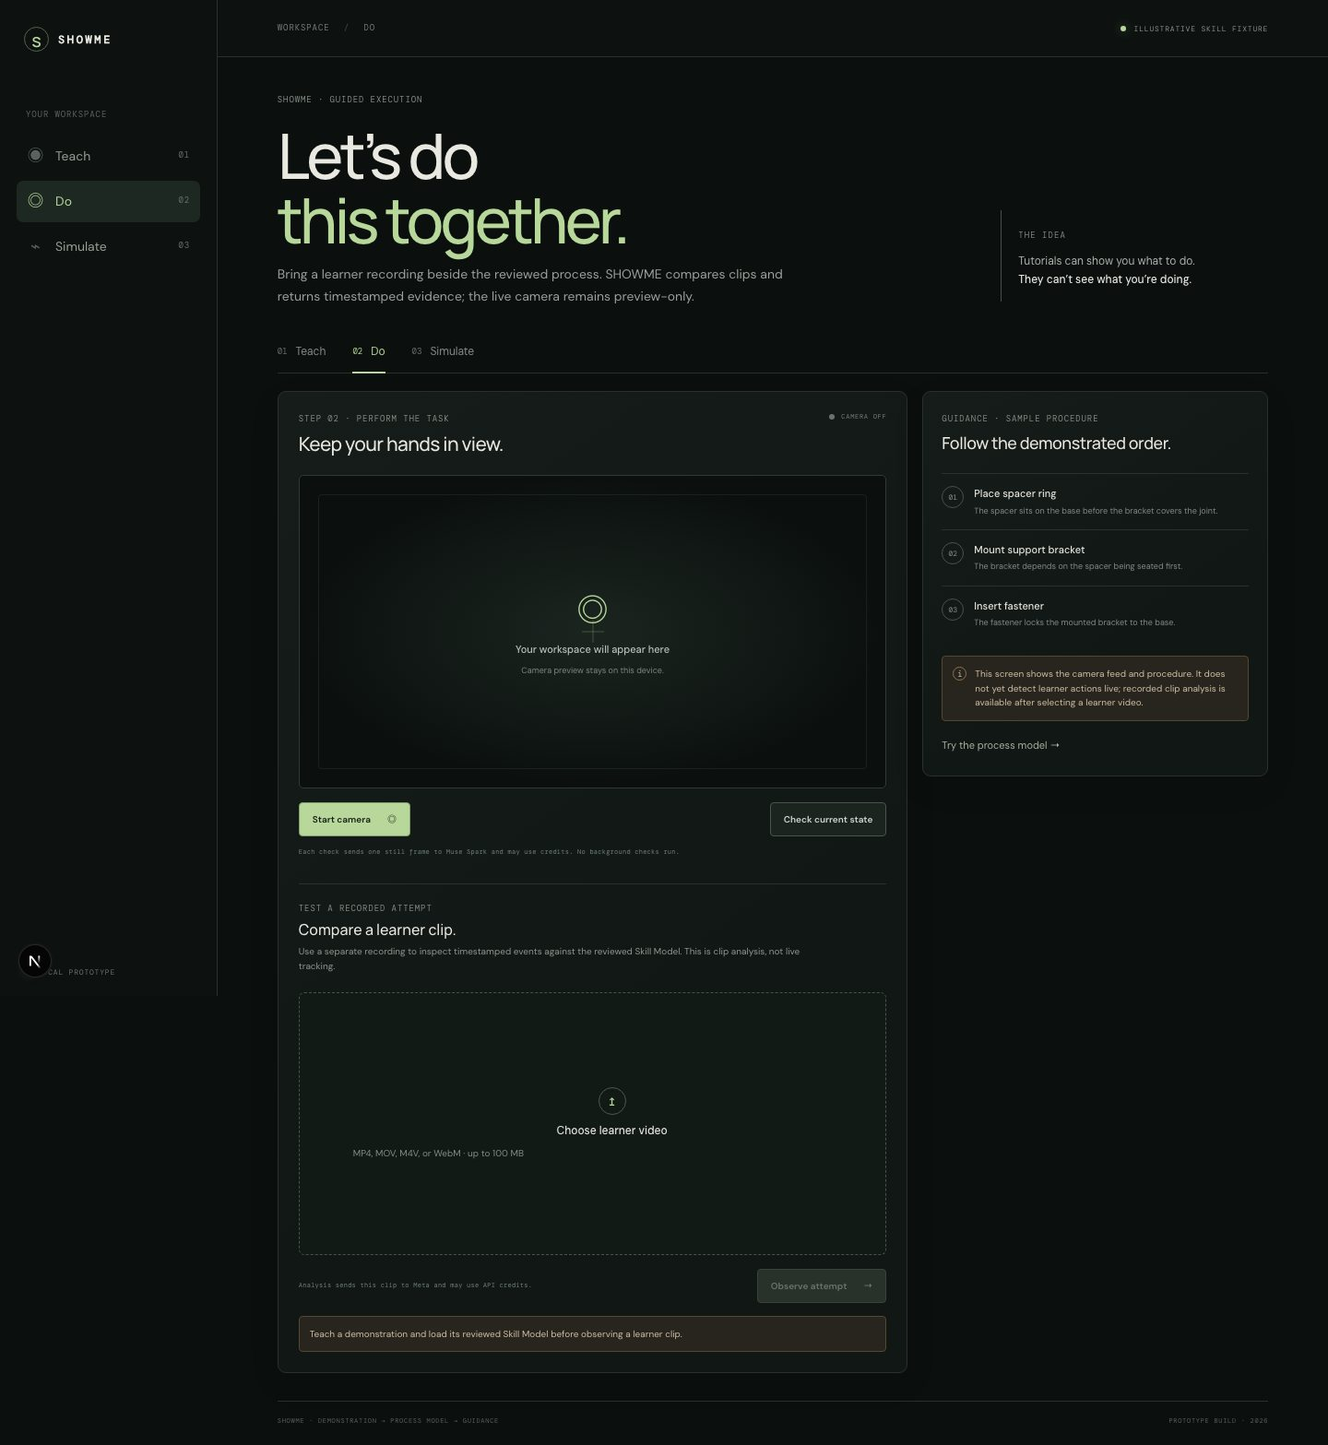
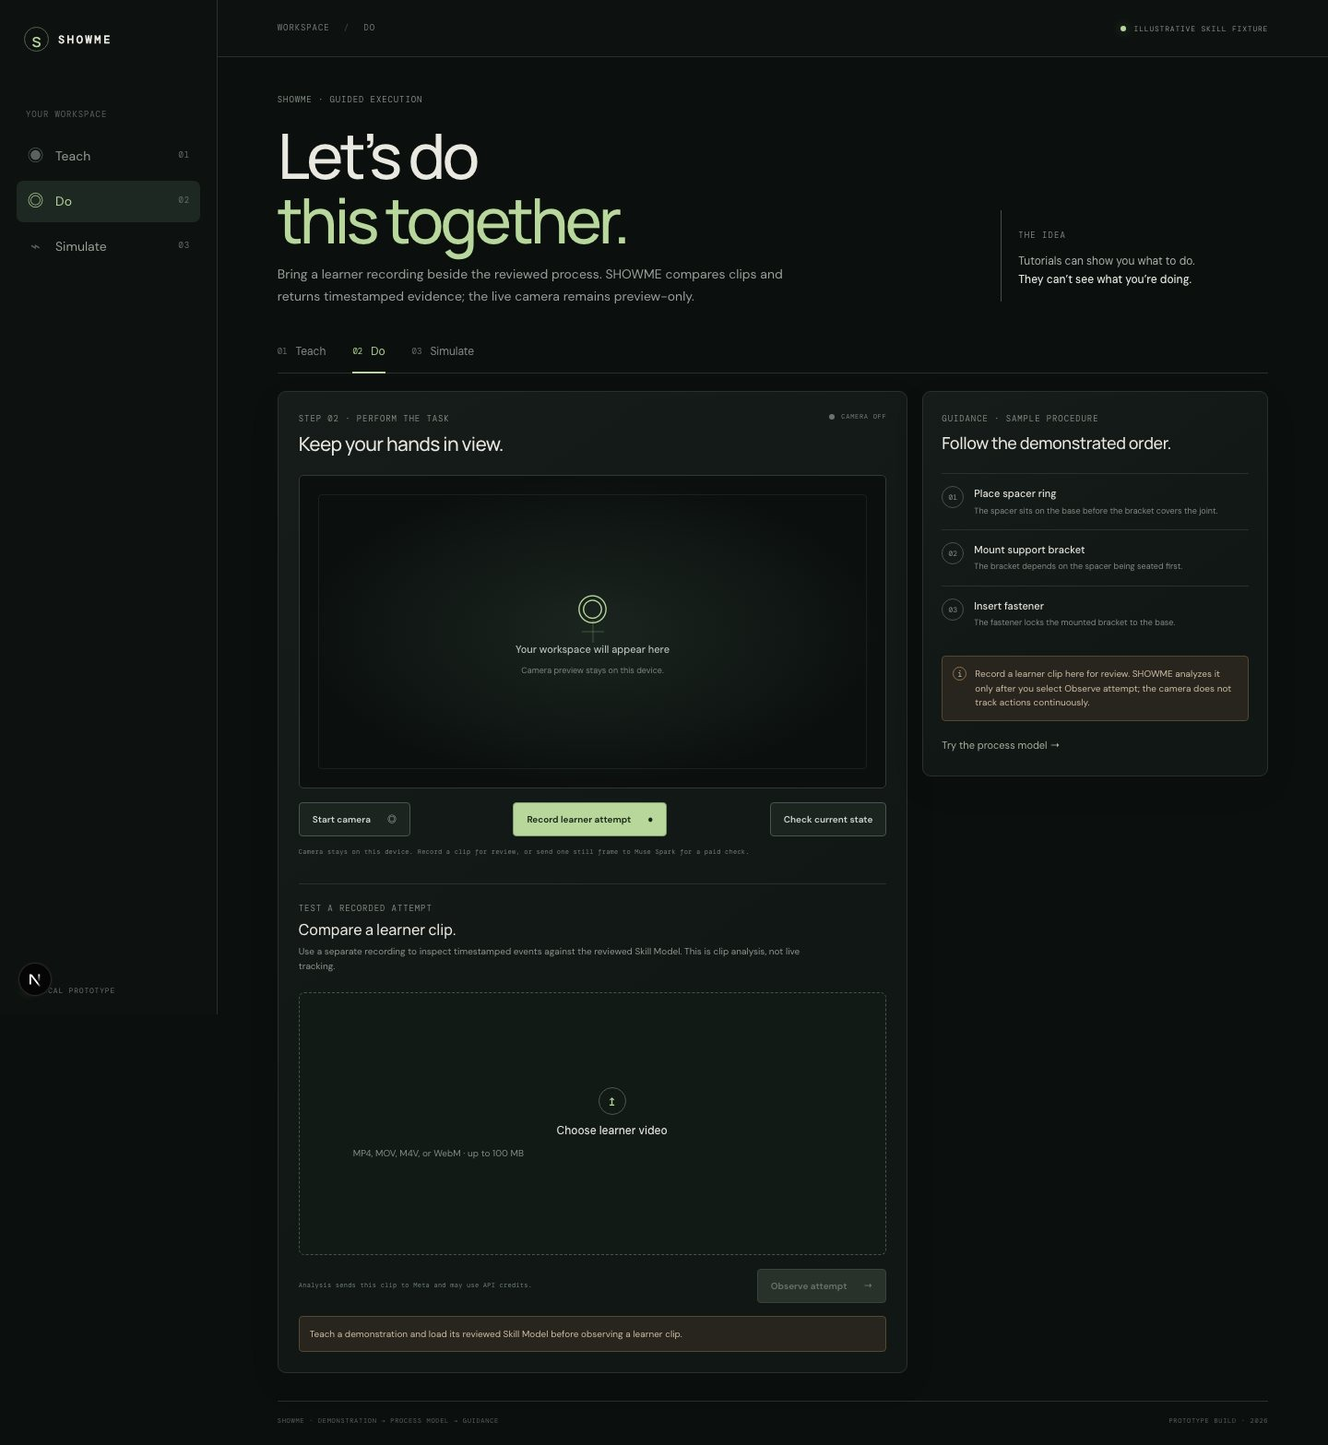
Add local learner recording to SHOWME Do

Changed region(s): [[0.7188, 0.4595, 0.9062, 0.4901], [0.375, 0.5514, 0.5, 0.582], [0.2188, 0.5514, 0.3125, 0.582]]

diff --git a/apps/web/app/page.tsx b/apps/web/app/page.tsx
@@ -67,6 +67,7 @@ export default function Home() {
   const [recordingDemo, setRecordingDemo] = useState(false);
   const [demoCaptureError, setDemoCaptureError] = useState("");
   const [cameraOn, setCameraOn] = useState(false);
+  const [recordingAttempt, setRecordingAttempt] = useState(false);
   const [cameraError, setCameraError] = useState("");
   const [narration, setNarration] = useState("");
   const [learnedProcess, setLearnedProcess] = useState<LearnedProcess | null>(null);
@@ -88,6 +89,8 @@ export default function Home() {
   const demoStreamRef = useRef<MediaStream | null>(null);
   const demoRecorderRef = useRef<MediaRecorder | null>(null);
   const demoChunksRef = useRef<Blob[]>([]);
+  const attemptRecorderRef = useRef<MediaRecorder | null>(null);
+  const attemptChunksRef = useRef<Blob[]>([]);
   const learnerInput = useRef<HTMLInputElement>(null);
   const learnerVideoRef = useRef<HTMLVideoElement>(null);
   const videoRef = useRef<HTMLVideoElement>(null);
@@ -129,8 +132,27 @@ export default function Home() {
 
   useEffect(() => () => {
     if (demoRecorderRef.current?.state === "recording") demoRecorderRef.current.stop();
+    if (attemptRecorderRef.current?.state === "recording") attemptRecorderRef.current.stop();
     demoStreamRef.current?.getTracks().forEach((track) => track.stop());
+    streamRef.current?.getTracks().forEach((track) => track.stop());
   }, []);
+
+  useEffect(() => () => {
+    if (mode === "teach") {
+      if (demoRecorderRef.current?.state === "recording") demoRecorderRef.current.stop();
+      demoStreamRef.current?.getTracks().forEach((track) => track.stop());
+      demoStreamRef.current = null;
+      setDemoCameraOn(false);
+      setRecordingDemo(false);
+    }
+    if (mode === "do") {
+      if (attemptRecorderRef.current?.state === "recording") attemptRecorderRef.current.stop();
+      streamRef.current?.getTracks().forEach((track) => track.stop());
+      streamRef.current = null;
+      setCameraOn(false);
+      setRecordingAttempt(false);
+    }
+  }, [mode]);
 
   useEffect(() => {
     if (cameraOn && videoRef.current && streamRef.current) videoRef.current.srcObject = streamRef.current;
@@ -192,9 +214,51 @@ export default function Home() {
   }
 
   function stopCamera() {
+    if (attemptRecorderRef.current?.state === "recording") {
+      attemptRecorderRef.current.stop();
+      return;
+    }
     streamRef.current?.getTracks().forEach((track) => track.stop());
     streamRef.current = null;
     setCameraOn(false);
+  }
+
+  async function startAttemptRecording() {
+    if (!navigator.mediaDevices?.getUserMedia || typeof MediaRecorder === "undefined") {
+      setCameraError("Camera recording is unavailable here. You can upload a learner clip instead.");
+      return;
+    }
+    try {
+      let stream = streamRef.current;
+      if (!stream) {
+        stream = await navigator.mediaDevices.getUserMedia({ video: { facingMode: "environment", width: { ideal: 1280 }, height: { ideal: 720 } }, audio: false });
+        streamRef.current = stream;
+        setCameraOn(true);
+      }
+      const mimeType = ["video/webm;codecs=vp9", "video/webm;codecs=vp8", "video/mp4"]
+        .find((candidate) => MediaRecorder.isTypeSupported(candidate));
+      const recorder = new MediaRecorder(stream, mimeType ? { mimeType } : undefined);
+      attemptChunksRef.current = [];
+      recorder.ondataavailable = (event) => {
+        if (event.data.size > 0) attemptChunksRef.current.push(event.data);
+      };
+      recorder.onstop = () => {
+        const blob = new Blob(attemptChunksRef.current, { type: recorder.mimeType || "video/webm" });
+        const extension = blob.type.includes("mp4") ? "mp4" : "webm";
+        if (blob.size > 0) chooseLearnerVideo(new File([blob], `showme-attempt.${extension}`, { type: blob.type }));
+        streamRef.current?.getTracks().forEach((track) => track.stop());
+        streamRef.current = null;
+        attemptRecorderRef.current = null;
+        setRecordingAttempt(false);
+        setCameraOn(false);
+      };
+      attemptRecorderRef.current = recorder;
+      recorder.start(1000);
+      setRecordingAttempt(true);
+      setCameraError("");
+    } catch {
+      setCameraError("The browser could not start recording. You can upload a learner clip instead.");
+    }
   }
 
   function loadReviewedCandidate() {
@@ -496,17 +560,17 @@ export default function Home() {
           </div>}
 
           {mode === "do" && <div className="work-grid do-grid">
-            <section className="card camera-card"><div className="card-heading"><div><div className="eyebrow">STEP 02 · PERFORM THE TASK</div><h2>Keep your hands in view.</h2></div><span className={`record-indicator ${cameraOn ? "recording" : ""}`}><i /> {cameraOn ? "CAMERA ON" : "CAMERA OFF"}</span></div>
+            <section className="card camera-card"><div className="card-heading"><div><div className="eyebrow">STEP 02 · PERFORM THE TASK</div><h2>Keep your hands in view.</h2></div><span className={`record-indicator ${recordingAttempt ? "recording" : ""}`}><i /> {recordingAttempt ? "RECORDING" : cameraOn ? "CAMERA ON" : "CAMERA OFF"}</span></div>
               <div className="camera-stage">{cameraOn ? <video ref={videoRef} className="camera-feed" autoPlay muted playsInline /> : <div className="camera-empty"><span>◎</span><strong>Your workspace will appear here</strong><small>Camera preview stays on this device.</small></div>}<div className="camera-crosshair" /></div>
-              <div className="camera-controls">{cameraOn ? <button className="secondary-button" onClick={stopCamera}>Stop camera</button> : <button className="primary-button" onClick={() => void startCamera()}>Start camera <span>◎</span></button>}<button className="secondary-button" disabled={!cameraOn || !activeProcess || checkingSnapshot} onClick={() => void checkCurrentState()}>{checkingSnapshot ? "Checking frame…" : "Check current state"}</button><span className="small-note">Each check sends one still frame to Muse Spark and may use credits. No background checks run.</span></div>
+              <div className="camera-controls">{cameraOn ? <><button className="secondary-button" onClick={stopCamera}>{recordingAttempt ? "Stop and use this clip" : "Stop camera"}</button><button className="primary-button" disabled={recordingAttempt} onClick={() => void startAttemptRecording()}>{recordingAttempt ? "Recording…" : "Record learner attempt"}<span>●</span></button></> : <><button className="secondary-button" onClick={() => void startCamera()}>Start camera <span>◎</span></button><button className="primary-button" onClick={() => void startAttemptRecording()}>Record learner attempt<span>●</span></button></>}<button className="secondary-button" disabled={!cameraOn || recordingAttempt || !activeProcess || checkingSnapshot} onClick={() => void checkCurrentState()}>{checkingSnapshot ? "Checking frame…" : "Check current state"}</button><span className="small-note">Camera stays on this device. Record a clip for review, or send one still frame to Muse Spark for a paid check.</span></div>
               {cameraError && <div className="inline-honesty">{cameraError}</div>}
               {snapshotError && <div className="inline-honesty" role="alert">{snapshotError}</div>}
               {snapshotObservation && <section className={`snapshot-result snapshot-${snapshotObservation.assessment}`} aria-live="polite"><div className="eyebrow">ONE-FRAME CHECK · {snapshotObservation._run?.model ?? "MUSE SPARK"}</div><strong>{snapshotObservation.assessment === "consistent" ? "Matches a demonstrated state" : snapshotObservation.assessment === "possible_divergence" ? "Possible difference from the demonstrated states" : "The frame is unclear"}</strong><p>{snapshotObservation.evidence}</p><small>{snapshotObservation.state_id === "unknown" ? "No matching state identified" : activeProcess?.states.find((state) => state.id === snapshotObservation.state_id)?.description ?? snapshotObservation.state_id} · {objectLabels(snapshotObservation.object_ids)}</small>{snapshotObservation.uncertainties.length > 0 && <ul>{snapshotObservation.uncertainties.map((item, index) => <li key={`${index}-${item}`}>{item}</li>)}</ul>}<small className="snapshot-boundary">A still frame cannot show what happened before it or confirm recovery. This is not continuous tracking.</small></section>}
               <div className="observe-panel"><div className="eyebrow">TEST A RECORDED ATTEMPT</div><h3>Compare a learner clip.</h3><p>Use a separate recording to inspect timestamped events against the reviewed Skill Model. This is clip analysis, not live tracking.</p>
-                <button className="upload-drop compact-drop" onClick={() => learnerInput.current?.click()}><span className="upload-symbol">↥</span><strong>{learnerFile ? learnerFile.name : "Choose learner video"}</strong><small>MP4, MOV, M4V, or WebM · up to 100 MB</small></button>
+                <button className="upload-drop compact-drop" disabled={cameraOn} onClick={() => learnerInput.current?.click()}><span className="upload-symbol">↥</span><strong>{learnerFile ? learnerFile.name : "Choose learner video"}</strong><small>MP4, MOV, M4V, or WebM · up to 100 MB</small></button>
                 <input ref={learnerInput} type="file" accept="video/mp4,video/quicktime,video/x-m4v,video/webm" hidden onChange={(event) => chooseLearnerVideo(event.target.files?.[0])} />
                 {learnerUrl && <VideoPreview src={learnerUrl} videoRef={learnerVideoRef} />}
-                <div className="capture-actions"><span className="small-note">Analysis sends this clip to Meta and may use API credits.</span><button className="primary-button" disabled={!learnerFile || !activeProcess || observing} onClick={() => void observeLearnerVideo()}>{observing ? "Comparing clip…" : "Observe attempt"}<span>→</span></button></div>
+                <div className="capture-actions"><span className="small-note">Analysis sends this clip to Meta and may use API credits.</span><button className="primary-button" disabled={!learnerFile || !activeProcess || observing || cameraOn} onClick={() => void observeLearnerVideo()}>{observing ? "Comparing clip…" : "Observe attempt"}<span>→</span></button></div>
                 {!activeProcess && <div className="inline-honesty">Teach a demonstration and load its reviewed Skill Model before observing a learner clip.</div>}
                 {observeError && <div className="inline-honesty" role="alert">{observeError}</div>}
                 {observation && <section className="observation-results" aria-live="polite"><div className="observation-heading"><div><div className="eyebrow">MODEL OBSERVATION · {observation._run?.model ?? "MUSE SPARK"}</div><h4>{observation.recovery_status.replaceAll("_", " ")}</h4></div><span>{observation._run?.usage?.input_tokens ?? 0} INPUT TOKENS</span></div>
@@ -528,7 +592,7 @@ export default function Home() {
                 </section>}
               </div>
             </section>
-            <aside className="card guide-card"><div className="eyebrow">GUIDANCE · {activeProcess ? "REVIEWED SKILL" : "SAMPLE PROCEDURE"}</div><h3>Follow the demonstrated order.</h3><div className="guide-list">{model.actions.map((action, index) => <div className="guide-step" key={action.id}><span className={`guide-check ${state.includes(action.produces[0]) ? "done" : ""}`}>{state.includes(action.produces[0]) ? "✓" : String(index + 1).padStart(2, "0")}</span><div><strong>{action.label}</strong><small>{action.explanation}</small></div></div>)}</div><div className="guide-boundary"><span>i</span><p>This screen shows the camera feed and procedure. It does not yet detect learner actions live; recorded clip analysis is available after selecting a learner video.</p></div><button className="text-action" onClick={() => setMode("simulate")}>Try the process model <span>→</span></button>{activeProcess && <button className="text-action forget-skill" onClick={forgetReviewedSkill}>Forget saved skill</button>}</aside>
+            <aside className="card guide-card"><div className="eyebrow">GUIDANCE · {activeProcess ? "REVIEWED SKILL" : "SAMPLE PROCEDURE"}</div><h3>Follow the demonstrated order.</h3><div className="guide-list">{model.actions.map((action, index) => <div className="guide-step" key={action.id}><span className={`guide-check ${state.includes(action.produces[0]) ? "done" : ""}`}>{state.includes(action.produces[0]) ? "✓" : String(index + 1).padStart(2, "0")}</span><div><strong>{action.label}</strong><small>{action.explanation}</small></div></div>)}</div><div className="guide-boundary"><span>i</span><p>Record a learner clip here for review. SHOWME analyzes it only after you select Observe attempt; the camera does not track actions continuously.</p></div><button className="text-action" onClick={() => setMode("simulate")}>Try the process model <span>→</span></button>{activeProcess && <button className="text-action forget-skill" onClick={forgetReviewedSkill}>Forget saved skill</button>}</aside>
           </div>}
 
           <footer className="page-footer"><span>SHOWME · DEMONSTRATION → PROCESS MODEL → GUIDANCE</span><span>PROTOTYPE BUILD · 2026</span></footer>

diff --git a/apps/web/app/showme-panels.css b/apps/web/app/showme-panels.css
@@ -11,3 +11,4 @@
 .sequence-playback{display:flex;justify-content:space-between;align-items:center;gap:9px;padding:9px 0;border-top:1px solid #303b32;border-bottom:1px solid #303b32}.sequence-playback>span{color:#9baa9b;font:7px var(--mono);letter-spacing:.08em}.sequence-playback>div{display:flex;gap:6px}.sequence-playback .secondary-button{min-height:27px;padding:0 8px;font-size:8px}.sequence-report li.current{padding:5px;border-radius:3px;background:#202a22}
 .sequence-report.sequence-blocked li.current{background:#332718}.sequence-report.sequence-unobserved li.current{background:#302c1b}
 .demo-record-stage{height:285px;position:relative;overflow:hidden;margin-top:20px;border:1px solid #303a34;border-radius:5px;background:#080b09}.demo-record-stage .camera-feed{object-fit:cover}.demo-record-stage .record-indicator{position:absolute;top:12px;right:12px;padding:7px 9px;border:1px solid #3b463f;border-radius:4px;background:#111714dd}.demo-record-controls{display:flex;flex-wrap:wrap;align-items:center;gap:9px;margin-top:12px}.demo-record-controls .small-note{flex:1 1 100%;line-height:1.6}.demo-record-controls .primary-button,.demo-record-controls .secondary-button{min-height:33px;font-size:9px}
+.upload-drop:disabled{opacity:.5;cursor:not-allowed}

diff --git a/docs/SHOWME_APP_PLAN.md b/docs/SHOWME_APP_PLAN.md
@@ -53,10 +53,11 @@ The current mockups use an illustrative washer/bracket assembly. It is not the s
 ## Implementation status
 
 - Teach now supports both video upload and browser-camera recording; the recorded clip stays local until the user submits it to Muse Spark for analysis.
+- Do can also record a learner attempt locally or accept an uploaded clip; **Observe attempt** remains an explicit model-call action. Camera streams are stopped when the user leaves that surface.
 
 - Product contract: locked in [`PRODUCT.md`](PRODUCT.md).
 - Concept mockups: two created; Teach concept missing.
-- SHOWME web prototype: Teach, Do, and Simulate are implemented in `apps/web/` over a shared Skill Model. Teach accepts video and requires human review before activating the candidate; model-proposed prerequisites stay unenforced unless the reviewer explicitly maps one to an observed state. Do supports explicit single-frame checks and recorded learner-clip analysis; neither is continuous state tracking. Simulate lets users reorder actions, deterministically replays the proposed sequence from the model's initial state, and steps through each resulting state, stopping on confirmed constraints or reporting an unobserved transition. Its current scene view is procedural, not geometric or physical simulation.
+- SHOWME web prototype: Teach, Do, and Simulate are implemented in `apps/web/` over a shared Skill Model. Teach accepts uploaded or browser-recorded video and requires human review before activating the candidate; model-proposed prerequisites stay unenforced unless the reviewer explicitly maps one to an observed state. Do supports local clip recording/upload, explicit single-frame checks, and recorded learner-clip analysis; neither is continuous state tracking. Simulate lets users reorder actions, deterministically replays the proposed sequence from the model's initial state, and steps through each resulting state, stopping on confirmed constraints or reporting an unobserved transition. Its current scene view is procedural, not geometric or physical simulation.
 - A reviewed process can be persisted in browser-local storage; learner videos and camera frames are not saved by the app.
 - The prototype has not passed the matched controlled experiment. Previous footage experiments have produced both a missed annotated error and a separate single-clip extraction smoke test; see the linked run reports in [`SHOWME_BUILD_PLAN.md`](SHOWME_BUILD_PLAN.md).
 - Current technical evidence and build sequence: [`SHOWME_BUILD_PLAN.md`](SHOWME_BUILD_PLAN.md) and [`SHOWME_PROOF_OF_MAGIC.md`](SHOWME_PROOF_OF_MAGIC.md).

diff --git a/docs/DAILY_LOG.md b/docs/DAILY_LOG.md
@@ -23,7 +23,7 @@ This log records SHOWME work only. Earlier entries described the retired THREAD 
 
 ### Decisions
 
-- Keep the CLI experiment as the current work; do not build the SHOWME UI, SAM overlays, or simulation on a failed P0 result.
+- This was a provisional experiment gate and is superseded as a product-plan decision by the locked SHOWME product. The app is now being built in parallel, while the failed P0 result still blocks any claim that task understanding is validated.
 - Next, choose a short, safe, visually discrete task with a small number of objects and a clearly visible, recoverable mistake. Record our own controlled clips if available footage cannot provide matched learn/control/error/recovery attempts.
 - Reuse the exact same expert process for separate correct, error, and recovery attempts. Keep expected labels out of model prompts and preserve the human answer key separately.
 
@@ -51,3 +51,9 @@ Run the controlled task with matched clips, inspect the learned process and evid
 - Recording does not upload automatically; selecting **Learn this skill** is the explicit model-call boundary. Camera tracks stop after recording or when the app unmounts.
 - This is capture plumbing, not evidence that SHOWME can infer a reliable skill. The matched LEGO demonstration/correct/error/recovery evaluation remains the next scientific gate.
 - Verification: all 7 web tests, TypeScript check, and production build passed. A temporary fake-camera browser run started and stopped MediaRecorder, produced a local preview, enabled **Learn this skill**, and stopped the camera without making a model request. The Teach screenshot in [`design/screenshots/`](../design/screenshots/README.md) shows the new capture control.
+
+### Implementation checkpoint — Do learner recording
+
+- Do can start recording a learner attempt directly or preview the live camera separately; the resulting clip joins the existing upload/preview path and only reaches Muse Spark after the user selects **Observe attempt**.
+- Switching away from Teach or Do stops that surface's camera stream; stopping a learner recording creates a local clip and releases the camera.
+- Verification: the recording lifecycle passed an isolated browser smoke with a fake camera. The clip preview appeared and **Observe attempt** became available without triggering a model call. Web tests, type check, and production build passed.

diff --git a/README.md b/README.md
@@ -34,7 +34,7 @@ These are screenshots of the **current local app**, captured October 27, 2026. S
 
 - Teach can capture a short demonstration from the browser camera or accept an uploaded video and narration, then ask Muse Spark for a structured candidate Skill Model with timestamped evidence.
 - A person reviews the candidate. Model-proposed prerequisites remain hypotheses unless explicitly mapped to a state and confirmed by the reviewer.
-- Do can request a single camera-frame check or compare a separately recorded learner clip. These are discrete observations, not continuous tracking.
+- Do can capture a learner clip in-browser or accept an upload, then compare it with the reviewed Skill Model; it can also request a single camera-frame check. These are discrete observations, not continuous tracking.
 - Simulate lets a person reorder actions, step through a deterministic procedural replay, and inspect the first confirmed blocker. A sequence absent from one demonstration is reported as **unobserved**, not impossible.
 - Skill candidates and human-reviewed constraint mappings persist in browser-local storage. Uploaded clips and camera frames are not stored by the app after the request.
 

diff --git a/apps/web/README.md b/apps/web/README.md
@@ -29,6 +29,6 @@ Open `http://localhost:3000`. The API defaults to `http://localhost:8000`; overr
 ## Honest capability boundaries
 
 - Teach returns a model-generated candidate that needs human review.
-- Do supports explicit snapshot checks and separate recorded-clip comparison. It is not continuous tracking.
+- Do supports local learner-clip recording or upload, explicit snapshot checks, and a separate clip comparison request. It is not continuous tracking.
 - Simulate replays a reordered action sequence against the Skill Model. It is a procedural state preview, not physics.
 - See the root [README](../../README.md) for current screenshots and the locked product definition.

diff --git a/design/screenshots/README.md b/design/screenshots/README.md
@@ -3,7 +3,7 @@
 Captured from the local web app on October 27, 2026 at 1440 px desktop width; each image extends to the end of that surface.
 
 - `01-teach.jpg` — demonstration upload, in-browser recording, and narration capture.
-- `02-do.jpg` — camera preview and recorded learner-clip workflow.
+- `02-do.jpg` — camera-first learner surface with direct capture and recorded-clip controls.
 - `03-simulate.jpg` — action-order editor with the illustrative fixture.
 - `04-simulate-what-if.jpg` — fixture run with the support bracket moved before the spacer; simulation stops on its explicitly illustrative prerequisite.
 
